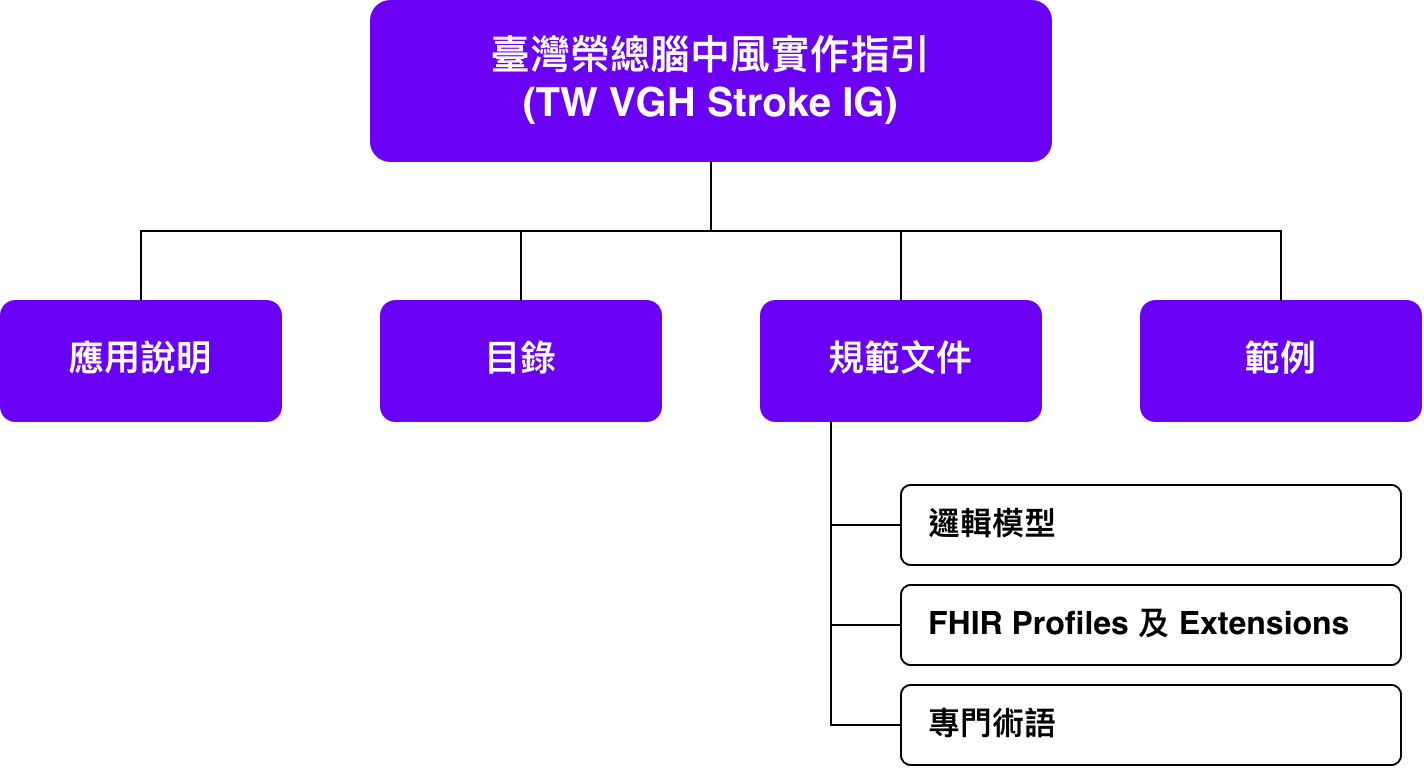
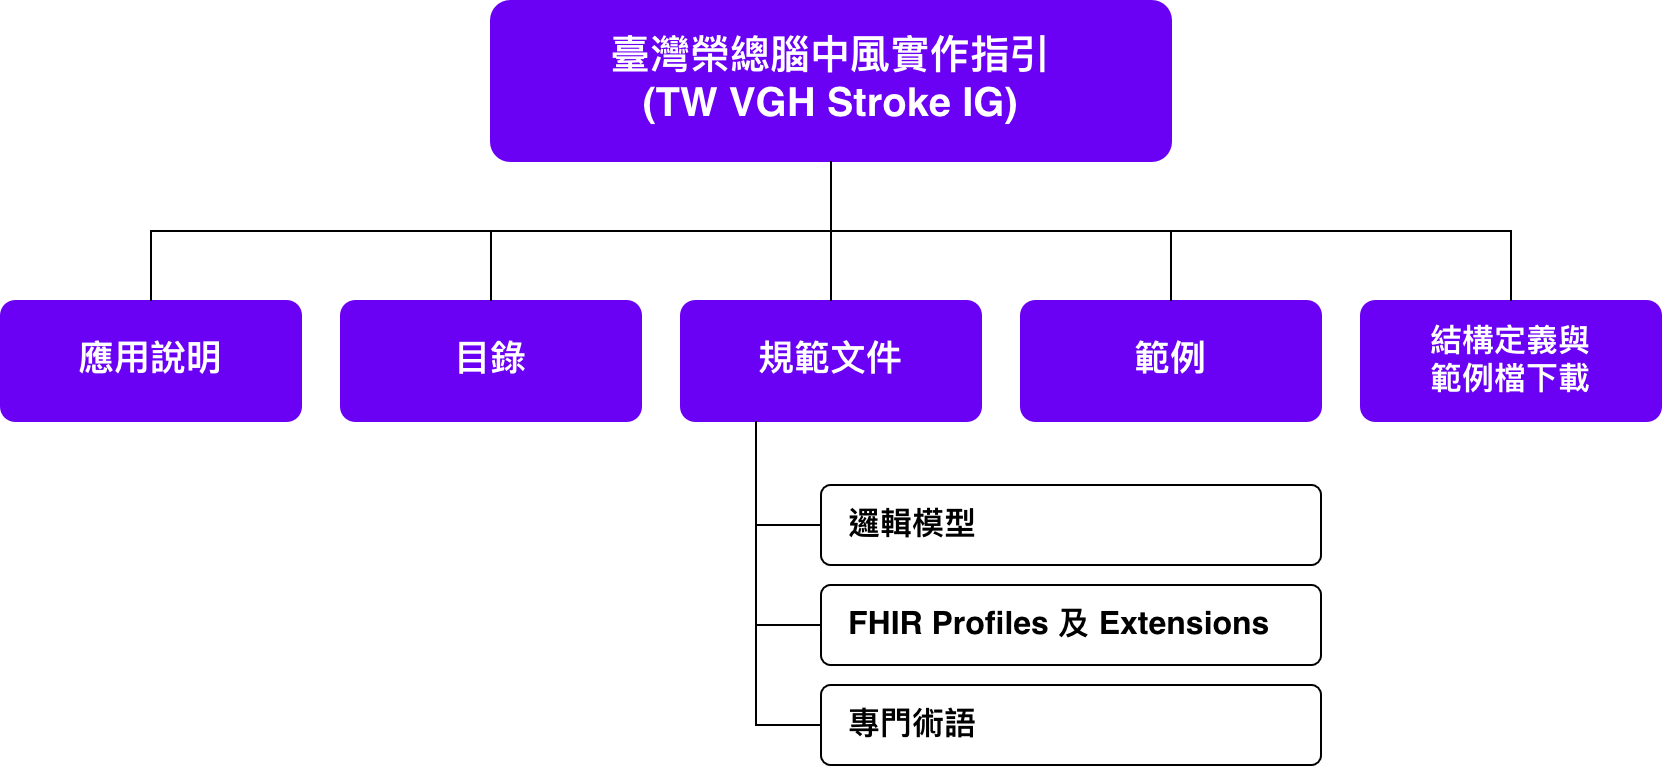
feat: 新增結構定義與範例檔下載頁
下載頁列出完整 IG、NPM Package、規範文件定義、值集展開、範例、試算表與 Schematron，並加入選單、首頁說明與網站架構圖。

Claude-Session: https://claude.ai/code/session_01D4ZakzqLsf3r2ANpYMKZk8

diff --git a/input/pagecontent/downloads.md b/input/pagecontent/downloads.md
@@ -1,0 +1,50 @@
+本頁提供 TW VGH Stroke IG 的規範文件與範例檔下載。驗證工具與 FHIR 伺服器可直接載入這些檔案。
+
+### 下載整個 IG
+
+| 項目 | 說明 | 下載 |
+|---|---|---|
+| 完整網站 | 本 IG 網站的所有頁面與檔案，可離線瀏覽 | [full-ig.zip](full-ig.zip) |
+| NPM Package | 所有規範文件與範例，供 FHIR 驗證工具、SUSHI 或 IG Publisher 以相依套件載入 | [package.tgz](package.tgz) |
+{: .grid .rwd-table}
+
+### 規範文件定義
+
+包含所有 Logical Models、Profiles、Extensions、CodeSystems、ValueSets 與 Questionnaire。
+
+| 格式 | 下載 |
+|---|---|
+| JSON | [definitions.json.zip](definitions.json.zip) |
+| XML | [definitions.xml.zip](definitions.xml.zip) |
+| Turtle | [definitions.ttl.zip](definitions.ttl.zip) |
+{: .grid .rwd-table}
+
+### 值集展開
+
+所有 ValueSet 展開後的代碼清單。
+
+| 格式 | 下載 |
+|---|---|
+| JSON | [expansions.json.zip](expansions.json.zip) |
+| XML | [expansions.xml.zip](expansions.xml.zip) |
+{: .grid .rwd-table}
+
+### 範例
+
+所有範例，包括三個個案資料包 Bundle。
+
+| 格式 | 下載 |
+|---|---|
+| JSON | [examples.json.zip](examples.json.zip) |
+| XML | [examples.xml.zip](examples.xml.zip) |
+| Turtle | [examples.ttl.zip](examples.ttl.zip) |
+{: .grid .rwd-table}
+
+### 試算表與驗證規則
+
+| 項目 | 說明 | 下載 |
+|---|---|---|
+| Excel | 每個 Profile、CodeSystem 與 ValueSet 各一份試算表，列出元素、基數、型別、綁定與代碼 | [excels.zip](excels.zip) |
+| CSV | 與 Excel 內容相同的 CSV 檔 | [csvs.zip](csvs.zip) |
+| Schematron | 依 Profile 產生的 XML 驗證規則 | [schematrons.zip](schematrons.zip) |
+{: .grid .rwd-table}

diff --git a/input/pagecontent/index.md b/input/pagecontent/index.md
@@ -60,6 +60,7 @@
     </ul>
   </li>
   <li><strong><a href="examples.html">範例</a></strong>：TW VGH Stroke IG 的所有範例，依 Profile 分類列出。</li>
+  <li><strong><a href="downloads.html">結構定義與範例檔下載</a></strong>：下載完整 IG、NPM Package、規範文件定義、值集展開、範例、試算表與 Schematron。</li>
 </ul>
 </div>
 
